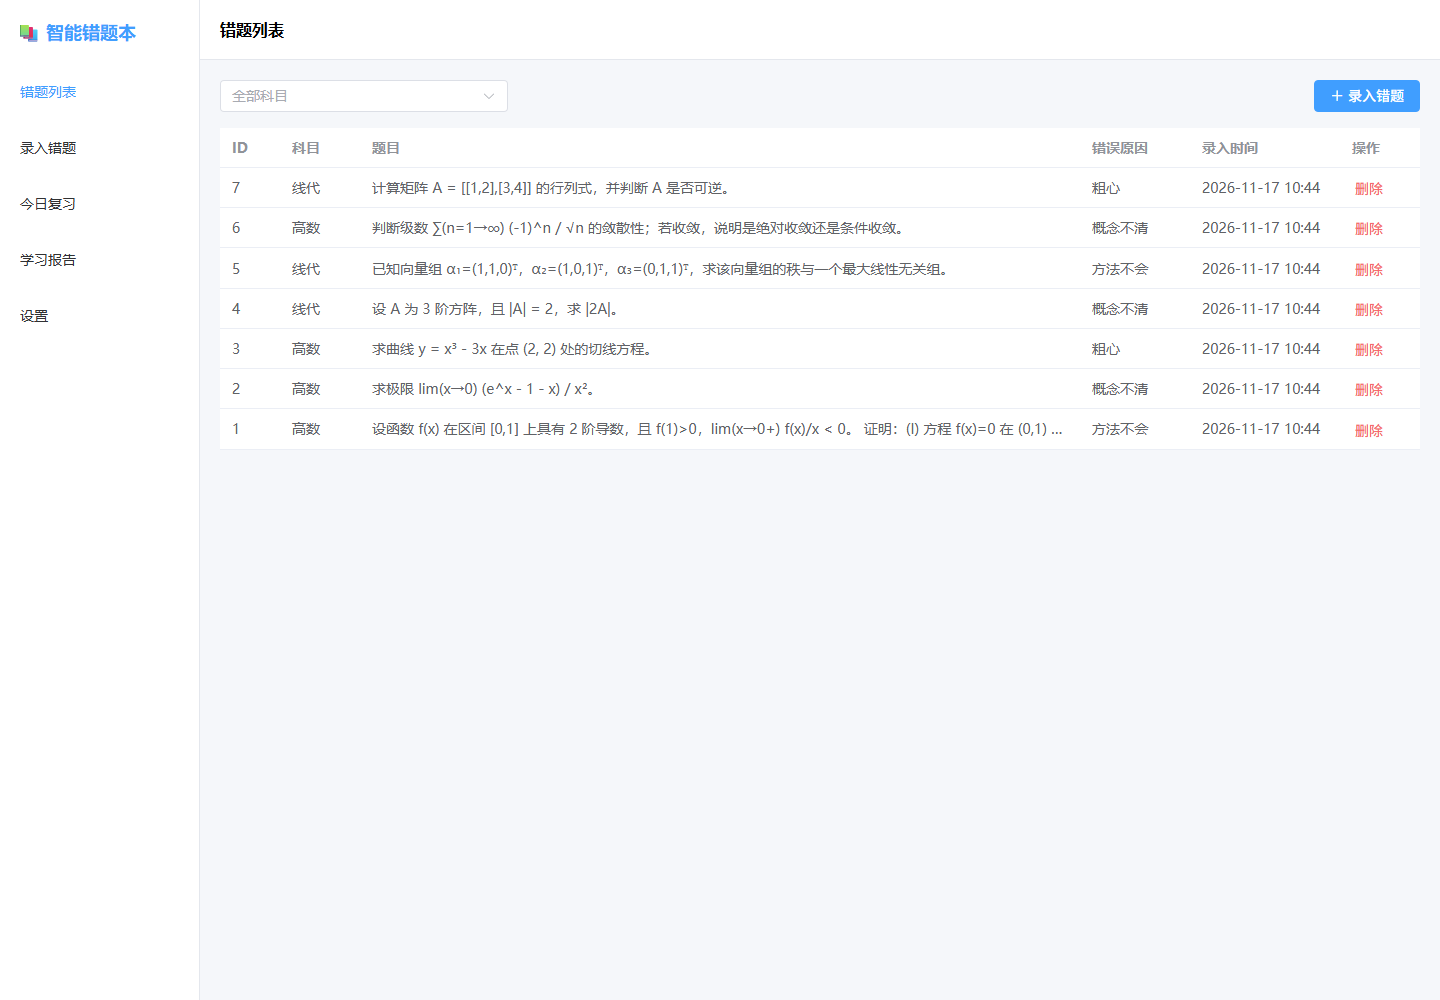
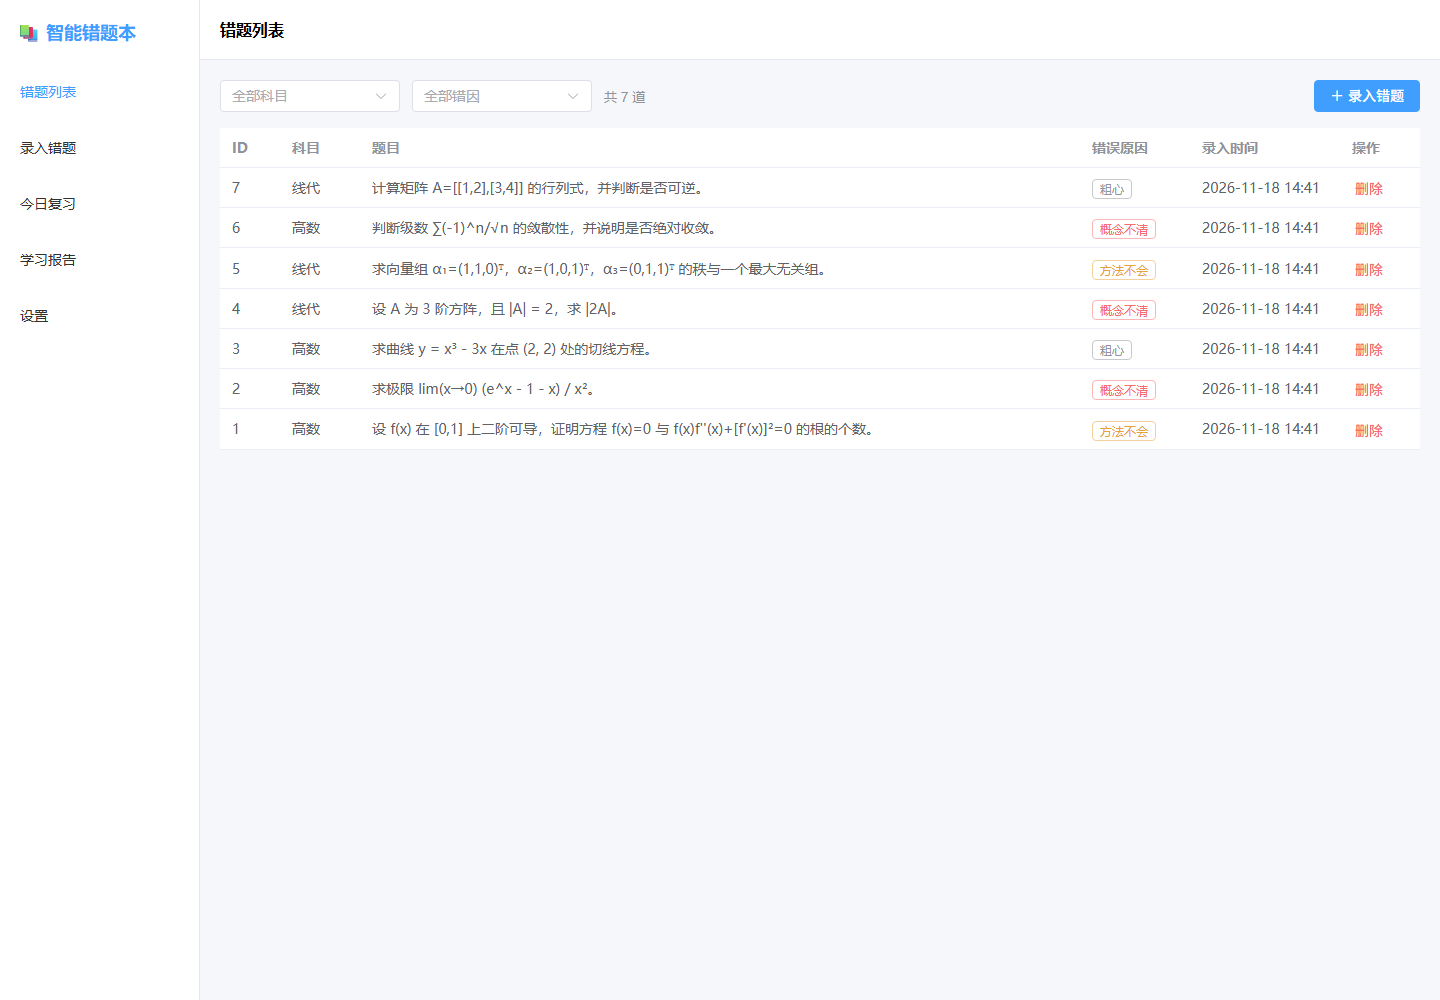
更新列表页截图；修正录入时间的时区偏移

diff --git a/frontend/src/views/MistakeList.vue b/frontend/src/views/MistakeList.vue
@@ -27,8 +27,15 @@ onMounted(load)
 const errorTypeText = { careless: '粗心', concept: '概念不清', method: '方法不会' }
 const errorTagType = { careless: 'info', concept: 'danger', method: 'warning' }
 
-// 后端返回 ISO 时间串（2026-11-17T10:44:48），表格里只显示到分钟
-const formatTime = (value) => (value ? value.replace('T', ' ').slice(0, 16) : '')
+// 后端按 UTC 存储（SQLite 的 CURRENT_TIMESTAMP 就是 UTC），
+// 这里补上 Z 再交给浏览器转成本地时区，否则会比实际时间少 8 小时。
+const formatTime = (value) => {
+  if (!value) return ''
+  const date = new Date(value.endsWith('Z') ? value : `${value}Z`)
+  if (Number.isNaN(date.getTime())) return value.replace('T', ' ').slice(0, 16)
+  const pad = (n) => String(n).padStart(2, '0')
+  return `${date.getFullYear()}-${pad(date.getMonth() + 1)}-${pad(date.getDate())} ${pad(date.getHours())}:${pad(date.getMinutes())}`
+}
 
 const remove = async (id) => {
   await ElMessageBox.confirm('确定删除这条错题？', '提示', { type: 'warning' })

diff --git a/README.md b/README.md
@@ -185,6 +185,7 @@ wrongbook/
 ## 已知限制
 
 - 单用户、无登录（`user_id` 未做越权校验，多用户前必须补）
+- 时间统一按 UTC 存储，前端按浏览器本地时区显示；切 MySQL 时需保证连接时区为 UTC
 - 无数据库迁移（Alembic 待接入），字段变更需重建库
 - 每日复习上限只影响队列展示，不是硬性截止
 - 学习报告仍是占位页；拍照识别未实现
